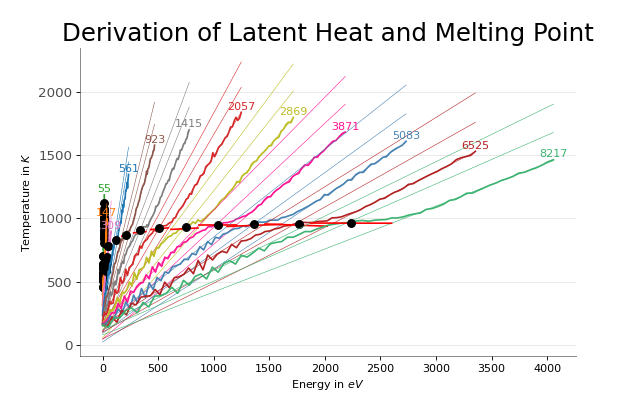
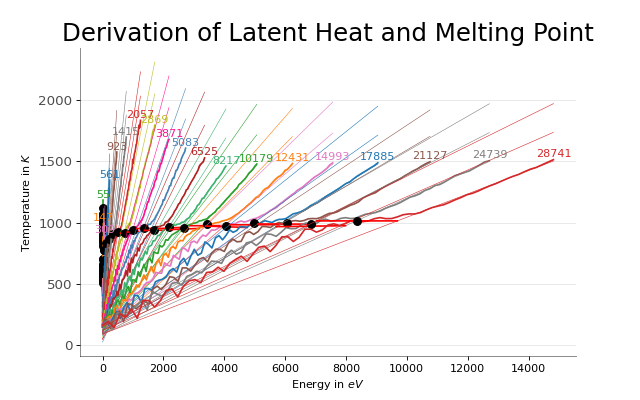
saving from arch

diff --git a/milestones/07/ovito/plot_intersection_calculation_for_latent_heat_and_melting_point.py b/milestones/07/ovito/plot_intersection_calculation_for_latent_heat_and_melting_point.py
@@ -1,45 +1,97 @@
 import pandas as pd
+import numpy as np
 import matplotlib.pyplot as plt
 import matplotx
-import tikzplotlib
 
 # Prepare data
 labels = [r"$E_\mathrm{total}$", r"Temperature}"]
-headers = ["Etotal", "Temperature", "Heat Capacity"]
+headers = ["Etotal", "Temperature"]
+
+# numbers = ["8217"]
+# numbers = ["55", "147", "309", "561", "923", "1415", "2057", "2869", "3871", "5083", "6525", "8217"]
+numbers = ["55", "147", "309", "561", "923", "1415", "2057", "2869", "3871",
+           "5083", "6525", "8217", "10179", "12431", "14993", "17885", "21127",
+           "24739", "28741"]
 
 # Import Data
-# numbers = ["55"]
-numbers = ["55", "147", "309", "561", "923", "1415", "2057"]
-# numbers = ["2869", "3871", "5083", "6525", "8217", "10179", "12431", "14993", "17885", "21127", "24739", "28741"]
-# numbers = ["55", "147", "309", "561", "923", "1415", "2057", "2869", "3871",
-#            "5083", "6525", "8217", "10179", "12431", "14993", "17885",
-#            "21127", "24739", "28741"]
-
-dfs = [pd.read_csv('energy_' + num + '.csv', header=None, sep="\t") for num in numbers]
+dfs = [pd.read_csv('energy_' + num + '.csv', header=None, usecols=[0, 1], sep="\t") for num in numbers]
 for df in dfs:
     df.columns = headers
 
-# Set first element to 0
-for df in dfs:
-    df.iat[0, 2] = None
-
 # Draw Plot
-mycolors = ['tab:pink', 'tab:blue', 'tab:green', 'tab:orange',
+mycolors = ['tab:green', 'tab:orange', 'tab:pink', 'tab:blue',
             'tab:brown', 'tab:grey', 'tab:red', 'tab:olive',
             'deeppink', 'steelblue', 'firebrick', 'mediumseagreen']
 
 plt.figure(figsize=(8, 5), dpi=80)
 
+# Clear intersections and latened heat files
+with open("intersection points", "w") as f:
+    f.write("")
+with open("latened heat", "w") as f:
+    f.write("")
+
 for i, df in enumerate(dfs):
-    plt.plot(df[headers[1]], df[headers[2]], "o", color=mycolors[i % len(mycolors)], label=numbers[i])
-    # plt.text(df[headers[2]].iloc[-1], max(df[headers[2]]) + 50, numbers[i], horizontalalignment='center', color=mycolors[i % len(mycolors)])
+    upper_part = 3
+    if i > 6:
+        upper_part = 4
+
+    plt.plot(df[headers[0]], df[headers[1]], color=mycolors[i % len(mycolors)], label=numbers[i])
+
+    # Get lines for linear regression
+    b, a = np.polyfit(df[headers[0]].array[:len(df)//upper_part], df[headers[1]].array[:len(df)//upper_part], deg=1)
+    xseq = np.linspace(0, max(df[headers[0]].array), num=len(df))
+    plt.plot(xseq, a + b * xseq, color=mycolors[i % len(mycolors)], lw=0.5)
+    b2, a2 = np.polyfit(df[headers[0]].array[2*len(df)//3:], df[headers[1]].array[2*len(df)//3:], deg=1)
+    plt.plot(xseq, a2 + b2 * xseq, color=mycolors[i % len(mycolors)], lw=0.5)
+
+    # Draw bisecting line
+    plt.plot(xseq, (a2 - (a2-a)/2) + (b2 - (b2-b)/2) * xseq, color=mycolors[i % len(mycolors)], lw=0.5)
+
+    # Calculate intersection point
+    intersections = []
+    t = np.linspace(0, 50, 1000)
+    prev_dif = 0
+    t0, prev_ydata, prev_yline = None, None, None
+    for j, ZIPPEDY in enumerate(zip(t, df[headers[1]].array, (a2 - (a2-a)/2) + (b2 - (b2-b)/2) * xseq)):
+        t1, ydata, yline = ZIPPEDY
+        new_dif = ydata - yline
+        if np.abs(new_dif) < 1e-12:
+            intersections.append((t1, ydata))
+        elif new_dif * prev_dif < 0:  # interpolate intersection point
+            denom = prev_dif - new_dif
+            p = (df[headers[0]].iloc[j], -(ydata * prev_yline - yline * prev_ydata) / denom)
+            if p[1] > 500:
+                intersections.append(p)
+        t0, prev_ydata, prev_yline, prev_dif = t1, ydata, yline, new_dif
+
+    # Save intersection points
+    with open("intersection points", "a") as f:
+        f.write(f"{numbers[i]}\t" + "\t".join([str(p) for p in intersections]) + "\n")
+
+    # Calculate vertical lines on intersection point from left line to right line
+    py = intersections[len(intersections)//2][1]
+    vertical_line = np.array([py for _ in range(len(df))])
+    left_idx = np.argwhere(np.diff(np.sign(a2 + b2 * xseq - vertical_line))).flatten()[0]
+    right_idx = np.argwhere(np.diff(np.sign(a + b * xseq - vertical_line))).flatten()[0]
+
+    # Save latened heat
+    with open("latened heat", "a") as f:
+        f.write(f"{numbers[i]}\t{xseq[left_idx] - xseq[right_idx]}\n")
+
+    # Draw latent heat line and melting point
+    plt.plot(np.linspace(xseq[left_idx], xseq[right_idx], num=100), np.linspace((a2 + b2 * xseq)[left_idx], (a + b * xseq)[right_idx], num=100), color="red")
+    plt.plot(*zip(*intersections), 'o', ms=7, color="black")
+
+    # Draw cluster size
+    plt.text(df[headers[0]].iloc[-1], max(df[headers[1]]) + 20, numbers[i], horizontalalignment='center', color=mycolors[i % len(mycolors)])
 
 # Decoration
-plt.xlabel(r'Temperature in $K$')
-plt.ylabel(r'Heat Capacity in $\frac{eV}{K}$')
+plt.ylabel(r'Temperature in $K$')
+plt.xlabel(r'Energy in $eV$')
 plt.yticks(fontsize=12, alpha=.7)
-plt.title("Temperature versus Heat Capacity", fontsize=22)
-matplotx.line_labels()
+plt.title("Derivation of Latent Heat and Melting Point", fontsize=22)
+# matplotx.line_labels()
 
 # Plot grid behind graphs
 plt.grid(axis='y', alpha=.3)
@@ -50,8 +102,7 @@ plt.gca().spines["bottom"].set_alpha(0.5)
 plt.gca().spines["right"].set_alpha(0.0)
 plt.gca().spines["left"].set_alpha(0.5)
 
-path = r"T_vs_C"
-# tikzplotlib.save(path + ".tex")
+path = r"LH_vs_N"
 plt.savefig(path + ".png")
 
 plt.show()  # clears the plot

diff --git a/milestones/07/ovito/plot_temperature_vs_heat_capacity.py b/milestones/07/ovito/plot_temperature_vs_heat_capacity.py
@@ -1,0 +1,57 @@
+import pandas as pd
+import matplotlib.pyplot as plt
+import matplotx
+import tikzplotlib
+
+# Prepare data
+labels = [r"$E_\mathrm{total}$", r"Temperature}"]
+headers = ["Etotal", "Temperature", "Heat Capacity"]
+
+# Import Data
+# numbers = ["55"]
+numbers = ["55", "147", "309", "561", "923", "1415", "2057"]
+# numbers = ["2869", "3871", "5083", "6525", "8217", "10179", "12431", "14993", "17885", "21127", "24739", "28741"]
+# numbers = ["55", "147", "309", "561", "923", "1415", "2057", "2869", "3871",
+#            "5083", "6525", "8217", "10179", "12431", "14993", "17885",
+#            "21127", "24739", "28741"]
+
+dfs = [pd.read_csv('energy_' + num + '.csv', header=None, sep="\t") for num in numbers]
+for df in dfs:
+    df.columns = headers
+
+# Set first element to 0
+for df in dfs:
+    df.iat[0, 2] = None
+
+# Draw Plot
+mycolors = ['tab:pink', 'tab:blue', 'tab:green', 'tab:orange',
+            'tab:brown', 'tab:grey', 'tab:red', 'tab:olive',
+            'deeppink', 'steelblue', 'firebrick', 'mediumseagreen']
+
+plt.figure(figsize=(8, 5), dpi=80)
+
+for i, df in enumerate(dfs):
+    plt.plot(df[headers[1]], df[headers[2]], "o", color=mycolors[i % len(mycolors)], label=numbers[i])
+    # plt.text(df[headers[2]].iloc[-1], max(df[headers[2]]) + 50, numbers[i], horizontalalignment='center', color=mycolors[i % len(mycolors)])
+
+# Decoration
+plt.xlabel(r'Temperature in $K$')
+plt.ylabel(r'Heat Capacity in $\frac{eV}{K}$')
+plt.yticks(fontsize=12, alpha=.7)
+plt.title("Temperature versus Heat Capacity", fontsize=22)
+matplotx.line_labels()
+
+# Plot grid behind graphs
+plt.grid(axis='y', alpha=.3)
+
+# Remove borders
+plt.gca().spines["top"].set_alpha(0.0)
+plt.gca().spines["bottom"].set_alpha(0.5)
+plt.gca().spines["right"].set_alpha(0.0)
+plt.gca().spines["left"].set_alpha(0.5)
+
+path = r"T_vs_C"
+# tikzplotlib.save(path + ".tex")
+plt.savefig(path + ".png")
+
+plt.show()  # clears the plot
